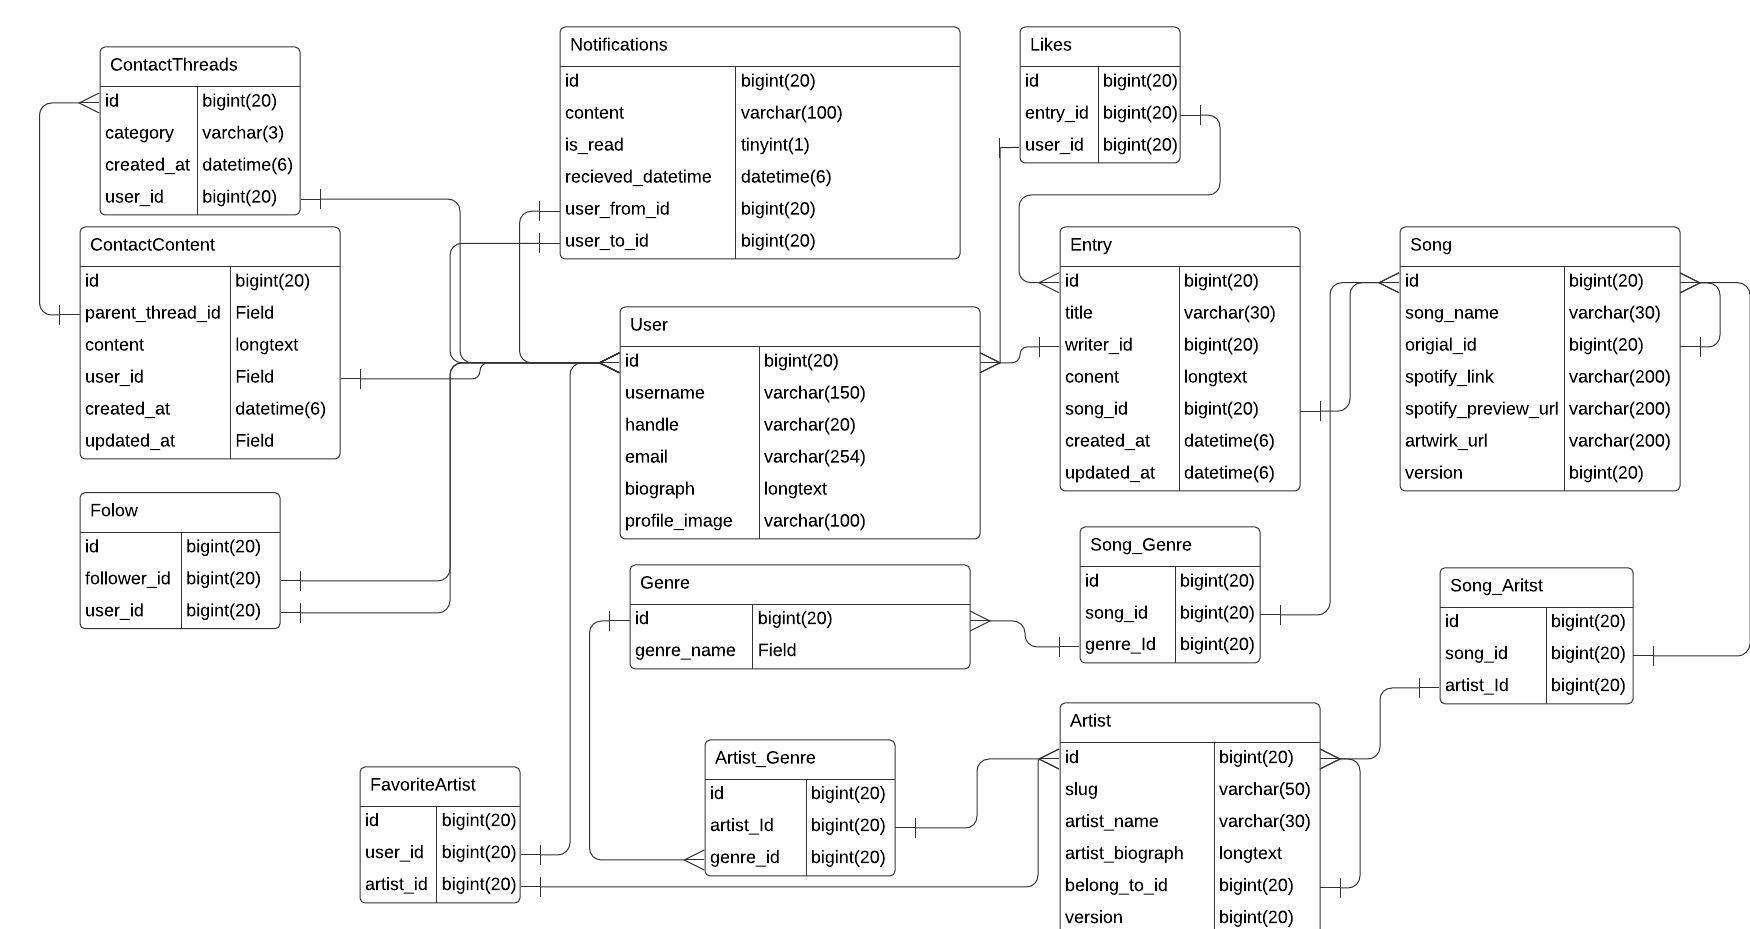
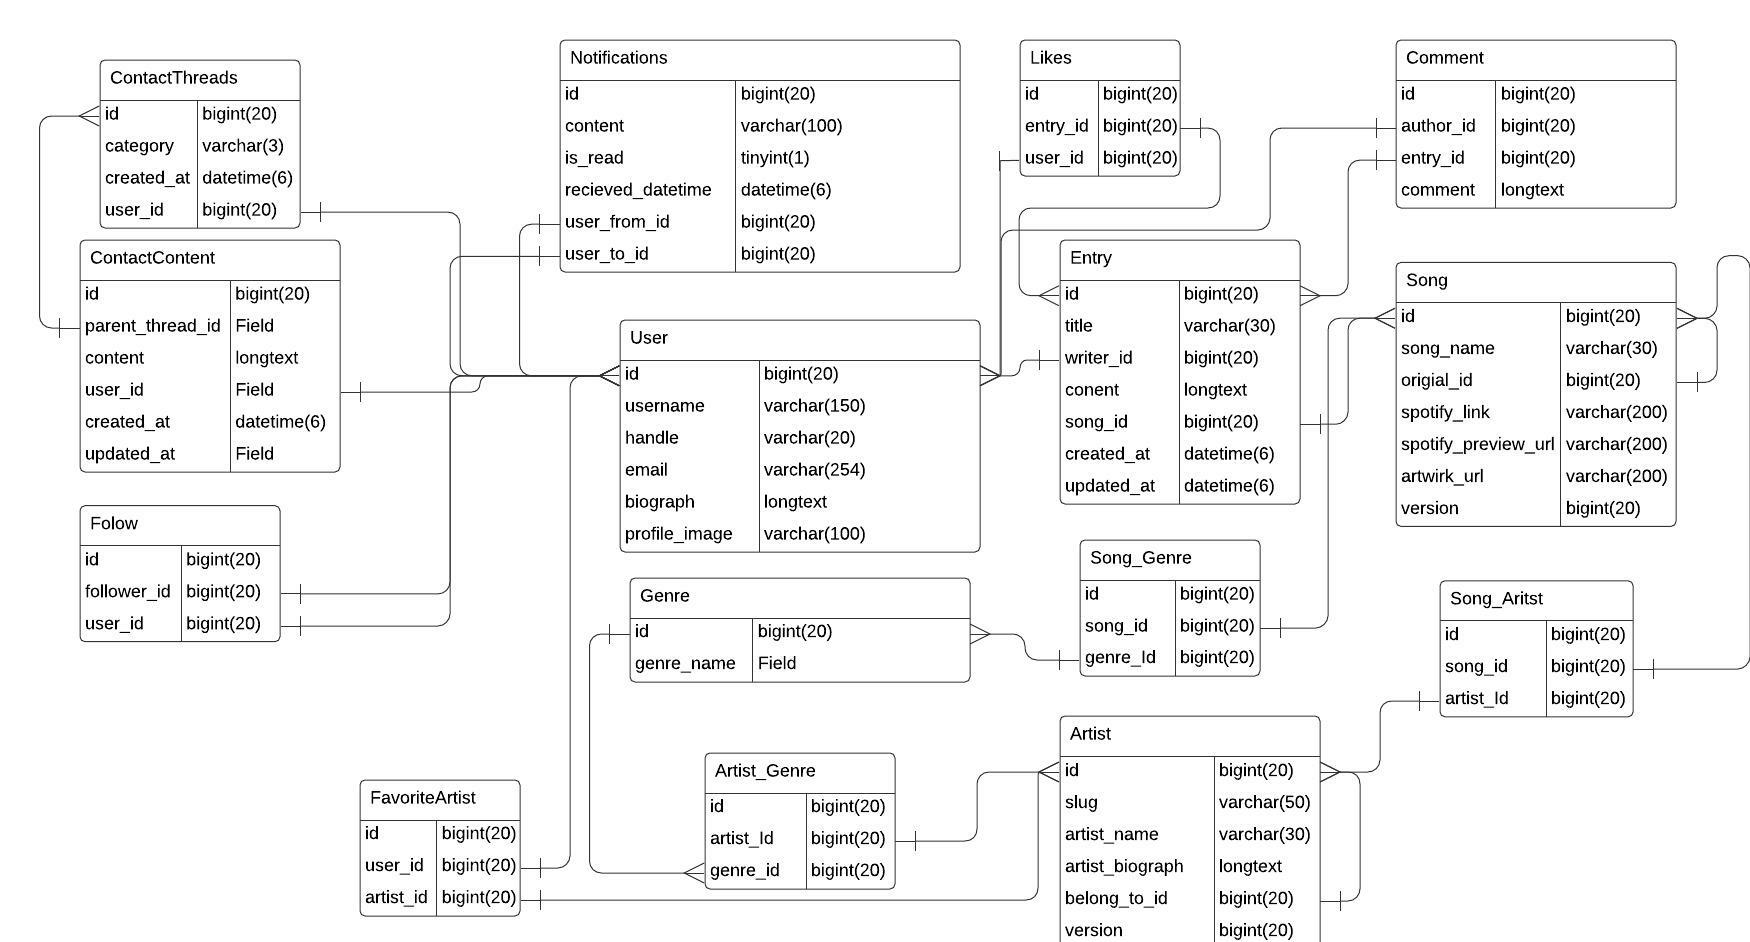
Update README

diff --git a/README.md b/README.md
@@ -1,14 +1,50 @@
 # mlog (読み：エムログ)
 
-音楽コンテンツ専用ブログサービス。
+<div class="logos">
+    <a href="https://www.python.org/">
+        <img src="readme_resouces/../readme_resources/img/python.svg" class="logo" title="パイソン。メインの開発言語。">
+    </a>
+    <a href="https://www.djangoproject.com/">
+        <img src="readme_resouces/../readme_resources/img/django.png" class="logo" title="重量Webフレームワーク。">
+    </a>
+    <a href="https://docs.celeryproject.org/en/stable/index.html">
+        <img src="readme_resouces/../readme_resources/img/celery.png" class="logo" title="セロリ。非同期タスクの実行環境。">
+    </a>
+    <a href="https://aws.amazon.com/">
+        <img src="readme_resouces/../readme_resources/img/aws.png" class="logo" title="本番環境用インフラ。">
+    </a>
+</div>
+<br>
+<div class="badges">
+    <a href='https://coveralls.io/github/yuki-tamaribuchi/mlog_project?branch=master' ><img src='https://coveralls.io/repos/github/yuki-tamaribuchi/mlog_project/badge.svg?branch=master' alt='Coverage Status' /></a>
+</div>
+
+<br>
+
+
+# 概要
+
+**音楽コンテンツ専用ブログサービス**です。
 
 曲に対して考えたことや感じたこと、裏話等を共有することができます。
 
+曲のどの部分が好きなのか、どんな思い出があるのか、どんな時に聴きたくなるのか、リリックに対してどう考えたのか、
+何でもあなたの好きなことを綴ってください。
+
+30秒プレビュー機能を使って読者に曲を聴いてもらうこともできます。
+
+また、同じ曲に対して他の人はどんな風に感じているのか等、様々な方向性から記事にアクセスすることができます。
+
+<br>
+
 [https://mlog.tamaribuchi-yuki.com/login_as_sample_user/](https://mlog.tamaribuchi-yuki.com/login_as_sample_user/) 
 
-上記URLはサンプルユーザで自動ログインされるようにしています。
+上記URLは、通常はアンデプロイしているため接続できません。ご確認の際は、Twitterアカウント等に連絡をいだだければデプロイいたします。
 
-- サンプルユーザのユーザネームとパスワードはこちらです。
+また、サンプルユーザで自動ログインされるようにしています。
+
+ログアウトした際に、再度ログインするには上記URLからアクセスするか、
+下記のユーザネームとパスワードでログインしてください。
 
     ユーザネーム: sampleuser
 
@@ -44,7 +80,7 @@
 
 - 曲・アーティスト詳細ページ
 - お気に入りアーティスト登録・解除
-- Spotify APIを用いたSpotifyリンクURL取得・アートワーク取得・30秒プレビュー音源URL取得機能
+- Spotify APIを用いたSpotifyリンクURL取得・アートワークURL取得・30秒プレビュー音源URL取得機能
 
 ## 全体
 
@@ -125,7 +161,7 @@ Select2を用いて検索機能を実現
 
 記事投稿画面で曲を検索している例
 
-![](readme_resources/img/select2_sample.png)
+![](readme_resources/img/select2_sample.png "PUNPEEが好き")
 
 
 <br><br>
@@ -134,15 +170,16 @@ Select2を用いて検索機能を実現
 
 ## 言語・フレームワーク
 
-- Python 3.9.7
+- Python 3.9.9 (開発環境)
+- Python 3.8 (本番環境)
 - Django 3.2.4
 
 ## ミドルウェア
 
 ### RDB
 
-- MariaDB 5.1(開発環境)
-- MySQL 8.0.23(本番環境)
+- MariaDB 5.1 (開発環境)
+- MySQL 8.0.23 (本番環境)
 
 ### Webサーバ
 
@@ -190,16 +227,11 @@ Select2を用いて検索機能を実現
 - Celery
 - Spotify API
 - Circle CI
+- GNU gettext
 
 <br><br>
 
 # テスト
-
-## カバレッジ
-
-85% (2021年10月18日現在)
-
-<br>
 
 ## ユニットテスト
 
@@ -230,12 +262,23 @@ Select2を用いて検索機能を実現
 ## アーキテクチャ
 
 ![](readme_resources/img/mlog_arch.jpg)
+※セキュリティグループは省略しております。
 
 <br>
 
 ## データベースERD
 
-![](readme_resources/img/mlog_db_erd.jpeg)
+### エントリ関連
+
+![](readme_resources/img/mlog_entry_erd.png)
+
+### 音楽コンテンツ関連
+
+![](readme_resources/img/mlog_musics_erd.png)
+
+### その他(通知・フォロー・お問い合わせ関連)
+
+![](readme_resources/img/mlog_etc_erd.png)
 
 <br><br>
 
@@ -276,3 +319,20 @@ Select2を用いて検索機能を実現
 2021年10月17日: HTTPS対応
 
 2021年10月18日: Circle CI整備完了(テスト・dockerイメージのbuildとpush)
+
+
+
+<style>
+.logos {
+    margin: 15px 0px;
+}
+
+.logo {
+    margin-right: 18px ;
+    height: 40px;
+}
+
+.badges {
+    margin: 15px 0px;
+}
+</style>
